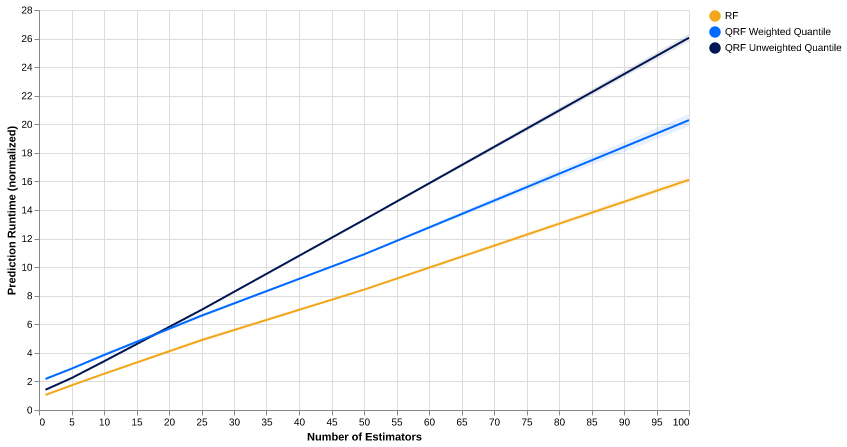
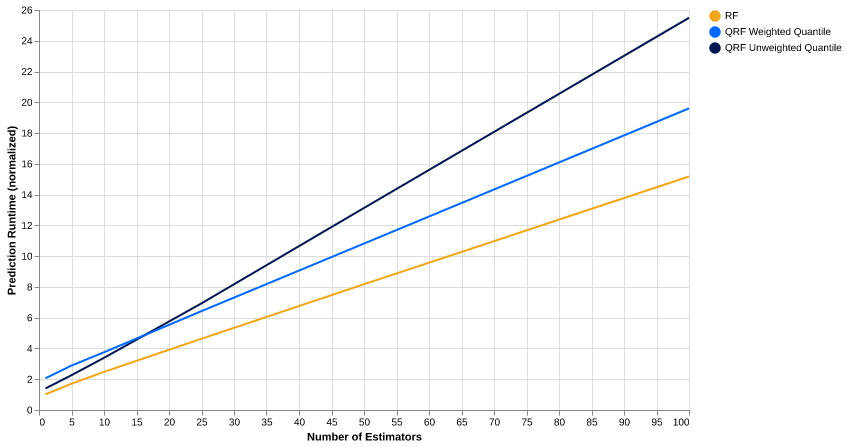
deploy: 41bd7e2277dc4b8bb39bd39fb95e29c0b61f37ce

diff --git a/gallery/plot_quantile_weighting.html b/gallery/plot_quantile_weighting.html
@@ -126,7 +126,7 @@
     
     
     <img src="../_static/quantile-forest-logo.png" class="logo__image only-light" alt="quantile-forest 1.3.3 documentation - Home"/>
-    <script>document.write(`<img src="../_static/quantile-forest-logo.png" class="logo__image only-dark" alt="quantile-forest 1.3.3 documentation - Home"/>`);</script>
+    <script>document.write(`<img src="../_static/quantile-forest-logo-white.png" class="logo__image only-dark" alt="quantile-forest 1.3.3 documentation - Home"/>`);</script>
   
   
 </a></div>
@@ -398,7 +398,7 @@ comparison.</p>
   // embed when document is loaded, to ensure vega library is available
   // this works on all modern browsers, except IE8 and older
   document.addEventListener("DOMContentLoaded", function(event) {
-      var spec = {"config": {"view": {"continuousWidth": 300, "continuousHeight": 300}, "range": {"category": ["#f2a619", "#006aff", "#001751"]}}, "layer": [{"mark": {"type": "line"}, "encoding": {"color": {"condition": {"param": "param_12", "field": "name", "legend": {"symbolOpacity": 1}, "sort": ["RF", "QRF Weighted Quantile", "QRF Unweighted Quantile"], "title": null, "type": "nominal"}, "value": "lightgray"}, "x": {"field": "n_estimators", "title": "Number of Estimators", "type": "quantitative"}, "y": {"field": "mean", "title": "Prediction Runtime (normalized)", "type": "quantitative"}}, "name": "view_10"}, {"mark": {"type": "area", "opacity": 0.1}, "encoding": {"color": {"condition": {"param": "param_12", "field": "name", "legend": {"symbolOpacity": 1}, "sort": ["RF", "QRF Weighted Quantile", "QRF Unweighted Quantile"], "title": null, "type": "nominal"}, "value": "lightgray"}, "tooltip": [{"field": "name", "title": "Estimator Name", "type": "nominal"}, {"field": "n_estimators", "format": ",d", "title": "Number of Estimators", "type": "quantitative"}, {"field": "mean", "format": ",.3f", "title": "Average Runtime", "type": "quantitative"}, {"field": "ymin", "format": ",.3f", "title": "Minimum Runtime", "type": "quantitative"}, {"field": "ymax", "format": ",.3f", "title": "Maximum Runtime", "type": "quantitative"}], "x": {"field": "n_estimators", "type": "quantitative"}, "y": {"field": "ymin", "type": "quantitative"}, "y2": {"field": "ymax"}}}], "data": {"name": "data-674a2571e2bf33451892e2630780c5b6"}, "height": 400, "params": [{"name": "param_12", "select": {"type": "point", "fields": ["name"]}, "bind": "legend", "views": ["view_10"]}], "width": 650, "$schema": "https://vega.github.io/schema/vega-lite/v5.16.3.json", "datasets": {"data-674a2571e2bf33451892e2630780c5b6": [{"name": "QRF Unweighted Quantile", "n_estimators": 1, "runtime_mean": 1.4250228310502284, "runtime_std": 0.16344690585676572, "mean": 1.4250228310502284, "std": 0.16344690585676572, "ymin": 1.3432993781218456, "ymax": 1.5067462839786112}, {"name": "QRF Unweighted Quantile", "n_estimators": 5, "runtime_mean": 2.2255707762557075, "runtime_std": 0.014882078004968314, "mean": 2.2255707762557075, "std": 0.014882078004968314, "ymin": 2.2181297372532236, "ymax": 2.2330118152581915}, {"name": "QRF Unweighted Quantile", "n_estimators": 10, "runtime_mean": 3.4195433789954337, "runtime_std": 0.28899655247357753, "mean": 3.4195433789954337, "std": 0.28899655247357753, "ymin": 3.275045102758645, "ymax": 3.5640416552322223}, {"name": "QRF Unweighted Quantile", "n_estimators": 25, "runtime_mean": 7.2288584474885855, "runtime_std": 0.4012551170488421, "mean": 7.2288584474885855, "std": 0.4012551170488421, "ymin": 7.028230888964164, "ymax": 7.429486006013007}, {"name": "QRF Unweighted Quantile", "n_estimators": 50, "runtime_mean": 13.50812785388128, "runtime_std": 0.211786052943339, "mean": 13.50812785388128, "std": 0.211786052943339, "ymin": 13.402234827409611, "ymax": 13.61402088035295}, {"name": "QRF Unweighted Quantile", "n_estimators": 100, "runtime_mean": 26.662009132420092, "runtime_std": 0.8103683098625925, "mean": 26.662009132420092, "std": 0.8103683098625925, "ymin": 26.256824977488797, "ymax": 27.067193287351387}, {"name": "QRF Weighted Quantile", "n_estimators": 1, "runtime_mean": 2.0680365296803656, "runtime_std": 0.017928149932087127, "mean": 2.0680365296803656, "std": 0.017928149932087127, "ymin": 2.059072454714322, "ymax": 2.077000604646409}, {"name": "QRF Weighted Quantile", "n_estimators": 5, "runtime_mean": 2.940730593607306, "runtime_std": 0.10514536341235205, "mean": 2.940730593607306, "std": 0.10514536341235205, "ymin": 2.88815791190113, "ymax": 2.993303275313482}, {"name": "QRF Weighted Quantile", "n_estimators": 10, "runtime_mean": 3.9150684931506854, "runtime_std": 0.24374077740323577, "mean": 3.9150684931506854, "std": 0.24374077740323577, "ymin": 3.7931981044490675, "ymax": 4.036938881852303}, {"name": "QRF Weighted Quantile", "n_estimators": 25, "runtime_mean": 6.614155251141552, "runtime_std": 0.14830695949161715, "mean": 6.614155251141552, "std": 0.14830695949161715, "ymin": 6.540001771395744, "ymax": 6.6883087308873606}, {"name": "QRF Weighted Quantile", "n_estimators": 50, "runtime_mean": 12.5662100456621, "runtime_std": 0.3906740726423219, "mean": 12.5662100456621, "std": 0.3906740726423219, "ymin": 12.370873009340938, "ymax": 12.761547081983261}, {"name": "QRF Weighted Quantile", "n_estimators": 100, "runtime_mean": 23.293698630136987, "runtime_std": 1.531634557493974, "mean": 23.293698630136987, "std": 1.531634557493974, "ymin": 22.52788135139, "ymax": 24.059515908883974}, {"name": "RF", "n_estimators": 1, "runtime_mean": 1.034337899543379, "runtime_std": 0.042161504266419174, "mean": 1.034337899543379, "std": 0.042161504266419174, "ymin": 1.0132571474101695, "ymax": 1.0554186516765884}, {"name": "RF", "n_estimators": 5, "runtime_mean": 1.72310502283105, "runtime_std": 0.01955276521069974, "mean": 1.72310502283105, "std": 0.01955276521069974, "ymin": 1.7133286402257002, "ymax": 1.7328814054364}, {"name": "RF", "n_estimators": 10, "runtime_mean": 2.6046575342465754, "runtime_std": 0.04976298454403698, "mean": 2.6046575342465754, "std": 0.04976298454403698, "ymin": 2.579776041974557, "ymax": 2.629539026518594}, {"name": "RF", "n_estimators": 25, "runtime_mean": 5.084200913242009, "runtime_std": 0.18715634340906154, "mean": 5.084200913242009, "std": 0.18715634340906154, "ymin": 4.990622741537479, "ymax": 5.17777908494654}, {"name": "RF", "n_estimators": 50, "runtime_mean": 9.298721461187215, "runtime_std": 0.14063429458740342, "mean": 9.298721461187215, "std": 0.14063429458740342, "ymin": 9.228404313893513, "ymax": 9.369038608480917}, {"name": "RF", "n_estimators": 100, "runtime_mean": 17.306118721461186, "runtime_std": 1.76161602415042, "mean": 17.306118721461186, "std": 1.76161602415042, "ymin": 16.425310709385975, "ymax": 18.186926733536396}]}};
+      var spec = {"config": {"view": {"continuousWidth": 300, "continuousHeight": 300}, "range": {"category": ["#f2a619", "#006aff", "#001751"]}}, "layer": [{"mark": {"type": "line"}, "encoding": {"color": {"condition": {"param": "param_12", "field": "name", "legend": {"symbolOpacity": 1}, "sort": ["RF", "QRF Weighted Quantile", "QRF Unweighted Quantile"], "title": null, "type": "nominal"}, "value": "lightgray"}, "x": {"field": "n_estimators", "title": "Number of Estimators", "type": "quantitative"}, "y": {"field": "mean", "title": "Prediction Runtime (normalized)", "type": "quantitative"}}, "name": "view_10"}, {"mark": {"type": "area", "opacity": 0.1}, "encoding": {"color": {"condition": {"param": "param_12", "field": "name", "legend": {"symbolOpacity": 1}, "sort": ["RF", "QRF Weighted Quantile", "QRF Unweighted Quantile"], "title": null, "type": "nominal"}, "value": "lightgray"}, "tooltip": [{"field": "name", "title": "Estimator Name", "type": "nominal"}, {"field": "n_estimators", "format": ",d", "title": "Number of Estimators", "type": "quantitative"}, {"field": "mean", "format": ",.3f", "title": "Average Runtime", "type": "quantitative"}, {"field": "ymin", "format": ",.3f", "title": "Minimum Runtime", "type": "quantitative"}, {"field": "ymax", "format": ",.3f", "title": "Maximum Runtime", "type": "quantitative"}], "x": {"field": "n_estimators", "type": "quantitative"}, "y": {"field": "ymin", "type": "quantitative"}, "y2": {"field": "ymax"}}}], "data": {"name": "data-a1ad199aae2c00c6cef4d41faf901e5a"}, "height": 400, "params": [{"name": "param_12", "select": {"type": "point", "fields": ["name"]}, "bind": "legend", "views": ["view_10"]}], "width": 650, "$schema": "https://vega.github.io/schema/vega-lite/v5.16.3.json", "datasets": {"data-a1ad199aae2c00c6cef4d41faf901e5a": [{"name": "QRF Unweighted Quantile", "n_estimators": 1, "runtime_mean": 1.4155904059040592, "runtime_std": 0.12707227396748075, "mean": 1.4155904059040592, "std": 0.12707227396748075, "ymin": 1.3520542689203188, "ymax": 1.4791265428877995}, {"name": "QRF Unweighted Quantile", "n_estimators": 5, "runtime_mean": 2.2481549815498156, "runtime_std": 0.03450343456992216, "mean": 2.2481549815498156, "std": 0.03450343456992216, "ymin": 2.2309032642648545, "ymax": 2.2654066988347767}, {"name": "QRF Unweighted Quantile", "n_estimators": 10, "runtime_mean": 3.4071955719557194, "runtime_std": 0.15162252910774082, "mean": 3.4071955719557194, "std": 0.15162252910774082, "ymin": 3.331384307401849, "ymax": 3.4830068365095896}, {"name": "QRF Unweighted Quantile", "n_estimators": 25, "runtime_mean": 7.156457564575646, "runtime_std": 0.19654965375564676, "mean": 7.156457564575646, "std": 0.19654965375564676, "ymin": 7.058182737697823, "ymax": 7.254732391453469}, {"name": "QRF Unweighted Quantile", "n_estimators": 50, "runtime_mean": 13.404520295202952, "runtime_std": 0.08048977427010401, "mean": 13.404520295202952, "std": 0.08048977427010401, "ymin": 13.3642754080679, "ymax": 13.444765182338003}, {"name": "QRF Unweighted Quantile", "n_estimators": 100, "runtime_mean": 26.083487084870846, "runtime_std": 0.15885101104801264, "mean": 26.083487084870846, "std": 0.15885101104801264, "ymin": 26.00406157934684, "ymax": 26.162912590394853}, {"name": "QRF Weighted Quantile", "n_estimators": 1, "runtime_mean": 2.096033210332103, "runtime_std": 0.024509557624184646, "mean": 2.096033210332103, "std": 0.024509557624184646, "ymin": 2.083778431520011, "ymax": 2.1082879891441952}, {"name": "QRF Weighted Quantile", "n_estimators": 5, "runtime_mean": 2.89049815498155, "runtime_std": 0.056339481165967056, "mean": 2.89049815498155, "std": 0.056339481165967056, "ymin": 2.8623284143985663, "ymax": 2.9186678955645333}, {"name": "QRF Weighted Quantile", "n_estimators": 10, "runtime_mean": 3.83330258302583, "runtime_std": 0.14613292215516765, "mean": 3.83330258302583, "std": 0.14613292215516765, "ymin": 3.760236121948246, "ymax": 3.906369044103414}, {"name": "QRF Weighted Quantile", "n_estimators": 25, "runtime_mean": 6.466051660516605, "runtime_std": 0.07459824327624284, "mean": 6.466051660516605, "std": 0.07459824327624284, "ymin": 6.428752538878483, "ymax": 6.503350782154727}, {"name": "QRF Weighted Quantile", "n_estimators": 50, "runtime_mean": 11.113284132841327, "runtime_std": 0.22520136286333867, "mean": 11.113284132841327, "std": 0.22520136286333867, "ymin": 11.000683451409659, "ymax": 11.225884814272996}, {"name": "QRF Weighted Quantile", "n_estimators": 100, "runtime_mean": 20.070295202952032, "runtime_std": 0.2991961622797281, "mean": 20.070295202952032, "std": 0.2991961622797281, "ymin": 19.920697121812168, "ymax": 20.219893284091896}, {"name": "RF", "n_estimators": 1, "runtime_mean": 1.0625461254612545, "runtime_std": 0.05130198317420451, "mean": 1.0625461254612545, "std": 0.05130198317420451, "ymin": 1.0368951338741523, "ymax": 1.0881971170483566}, {"name": "RF", "n_estimators": 5, "runtime_mean": 1.7440036900369005, "runtime_std": 0.05813068906633832, "mean": 1.7440036900369005, "std": 0.05813068906633832, "ymin": 1.7149383455037313, "ymax": 1.7730690345700697}, {"name": "RF", "n_estimators": 10, "runtime_mean": 2.5068265682656827, "runtime_std": 0.058851622045802514, "mean": 2.5068265682656827, "std": 0.058851622045802514, "ymin": 2.4774007572427816, "ymax": 2.536252379288584}, {"name": "RF", "n_estimators": 25, "runtime_mean": 4.710147601476015, "runtime_std": 0.08052683019192518, "mean": 4.710147601476015, "std": 0.08052683019192518, "ymin": 4.669884186380052, "ymax": 4.750411016571977}, {"name": "RF", "n_estimators": 50, "runtime_mean": 8.318911439114391, "runtime_std": 0.08459861726665631, "mean": 8.318911439114391, "std": 0.08459861726665631, "ymin": 8.276612130481062, "ymax": 8.36121074774772}, {"name": "RF", "n_estimators": 100, "runtime_mean": 15.488837638376385, "runtime_std": 0.15683286893741735, "mean": 15.488837638376385, "std": 0.15683286893741735, "ymin": 15.410421203907676, "ymax": 15.567254072845094}]}};
       var opt = {
         "mode": "vega-lite",
         "renderer": "canvas",

diff --git a/gallery/index.html b/gallery/index.html
@@ -128,7 +128,7 @@
     
     
     <img src="../_static/quantile-forest-logo.png" class="logo__image only-light" alt="quantile-forest 1.3.3 documentation - Home"/>
-    <script>document.write(`<img src="../_static/quantile-forest-logo.png" class="logo__image only-dark" alt="quantile-forest 1.3.3 documentation - Home"/>`);</script>
+    <script>document.write(`<img src="../_static/quantile-forest-logo-white.png" class="logo__image only-dark" alt="quantile-forest 1.3.3 documentation - Home"/>`);</script>
   
   
 </a></div>

diff --git a/gallery/plot_quantile_conformalized.html b/gallery/plot_quantile_conformalized.html
@@ -126,7 +126,7 @@
     
     
     <img src="../_static/quantile-forest-logo.png" class="logo__image only-light" alt="quantile-forest 1.3.3 documentation - Home"/>
-    <script>document.write(`<img src="../_static/quantile-forest-logo.png" class="logo__image only-dark" alt="quantile-forest 1.3.3 documentation - Home"/>`);</script>
+    <script>document.write(`<img src="../_static/quantile-forest-logo-white.png" class="logo__image only-dark" alt="quantile-forest 1.3.3 documentation - Home"/>`);</script>
   
   
 </a></div>

diff --git a/gallery/plot_quantile_example.html b/gallery/plot_quantile_example.html
@@ -126,7 +126,7 @@
     
     
     <img src="../_static/quantile-forest-logo.png" class="logo__image only-light" alt="quantile-forest 1.3.3 documentation - Home"/>
-    <script>document.write(`<img src="../_static/quantile-forest-logo.png" class="logo__image only-dark" alt="quantile-forest 1.3.3 documentation - Home"/>`);</script>
+    <script>document.write(`<img src="../_static/quantile-forest-logo-white.png" class="logo__image only-dark" alt="quantile-forest 1.3.3 documentation - Home"/>`);</script>
   
   
 </a></div>

diff --git a/gallery/plot_quantile_extrapolation.html b/gallery/plot_quantile_extrapolation.html
@@ -126,7 +126,7 @@
     
     
     <img src="../_static/quantile-forest-logo.png" class="logo__image only-light" alt="quantile-forest 1.3.3 documentation - Home"/>
-    <script>document.write(`<img src="../_static/quantile-forest-logo.png" class="logo__image only-dark" alt="quantile-forest 1.3.3 documentation - Home"/>`);</script>
+    <script>document.write(`<img src="../_static/quantile-forest-logo-white.png" class="logo__image only-dark" alt="quantile-forest 1.3.3 documentation - Home"/>`);</script>
   
   
 </a></div>

diff --git a/gallery/plot_quantile_interpolation.html b/gallery/plot_quantile_interpolation.html
@@ -126,7 +126,7 @@
     
     
     <img src="../_static/quantile-forest-logo.png" class="logo__image only-light" alt="quantile-forest 1.3.3 documentation - Home"/>
-    <script>document.write(`<img src="../_static/quantile-forest-logo.png" class="logo__image only-dark" alt="quantile-forest 1.3.3 documentation - Home"/>`);</script>
+    <script>document.write(`<img src="../_static/quantile-forest-logo-white.png" class="logo__image only-dark" alt="quantile-forest 1.3.3 documentation - Home"/>`);</script>
   
   
 </a></div>

diff --git a/gallery/plot_quantile_intervals.html b/gallery/plot_quantile_intervals.html
@@ -126,7 +126,7 @@
     
     
     <img src="../_static/quantile-forest-logo.png" class="logo__image only-light" alt="quantile-forest 1.3.3 documentation - Home"/>
-    <script>document.write(`<img src="../_static/quantile-forest-logo.png" class="logo__image only-dark" alt="quantile-forest 1.3.3 documentation - Home"/>`);</script>
+    <script>document.write(`<img src="../_static/quantile-forest-logo-white.png" class="logo__image only-dark" alt="quantile-forest 1.3.3 documentation - Home"/>`);</script>
   
   
 </a></div>

diff --git a/gallery/plot_quantile_multioutput.html b/gallery/plot_quantile_multioutput.html
@@ -126,7 +126,7 @@
     
     
     <img src="../_static/quantile-forest-logo.png" class="logo__image only-light" alt="quantile-forest 1.3.3 documentation - Home"/>
-    <script>document.write(`<img src="../_static/quantile-forest-logo.png" class="logo__image only-dark" alt="quantile-forest 1.3.3 documentation - Home"/>`);</script>
+    <script>document.write(`<img src="../_static/quantile-forest-logo-white.png" class="logo__image only-dark" alt="quantile-forest 1.3.3 documentation - Home"/>`);</script>
   
   
 </a></div>

diff --git a/gallery/plot_quantile_vs_standard.html b/gallery/plot_quantile_vs_standard.html
@@ -126,7 +126,7 @@
     
     
     <img src="../_static/quantile-forest-logo.png" class="logo__image only-light" alt="quantile-forest 1.3.3 documentation - Home"/>
-    <script>document.write(`<img src="../_static/quantile-forest-logo.png" class="logo__image only-dark" alt="quantile-forest 1.3.3 documentation - Home"/>`);</script>
+    <script>document.write(`<img src="../_static/quantile-forest-logo-white.png" class="logo__image only-dark" alt="quantile-forest 1.3.3 documentation - Home"/>`);</script>
   
   
 </a></div>

diff --git a/api.html b/api.html
@@ -128,7 +128,7 @@
     
     
     <img src="_static/quantile-forest-logo.png" class="logo__image only-light" alt="quantile-forest 1.3.3 documentation - Home"/>
-    <script>document.write(`<img src="_static/quantile-forest-logo.png" class="logo__image only-dark" alt="quantile-forest 1.3.3 documentation - Home"/>`);</script>
+    <script>document.write(`<img src="_static/quantile-forest-logo-white.png" class="logo__image only-dark" alt="quantile-forest 1.3.3 documentation - Home"/>`);</script>
   
   
 </a></div>

diff --git a/genindex.html b/genindex.html
@@ -125,7 +125,7 @@
     
     
     <img src="_static/quantile-forest-logo.png" class="logo__image only-light" alt="quantile-forest 1.3.3 documentation - Home"/>
-    <script>document.write(`<img src="_static/quantile-forest-logo.png" class="logo__image only-dark" alt="quantile-forest 1.3.3 documentation - Home"/>`);</script>
+    <script>document.write(`<img src="_static/quantile-forest-logo-white.png" class="logo__image only-dark" alt="quantile-forest 1.3.3 documentation - Home"/>`);</script>
   
   
 </a></div>

diff --git a/index.html b/index.html
@@ -127,7 +127,7 @@
     
     
     <img src="_static/quantile-forest-logo.png" class="logo__image only-light" alt="quantile-forest 1.3.3 documentation - Home"/>
-    <script>document.write(`<img src="_static/quantile-forest-logo.png" class="logo__image only-dark" alt="quantile-forest 1.3.3 documentation - Home"/>`);</script>
+    <script>document.write(`<img src="_static/quantile-forest-logo-white.png" class="logo__image only-dark" alt="quantile-forest 1.3.3 documentation - Home"/>`);</script>
   
   
 </a></div>
